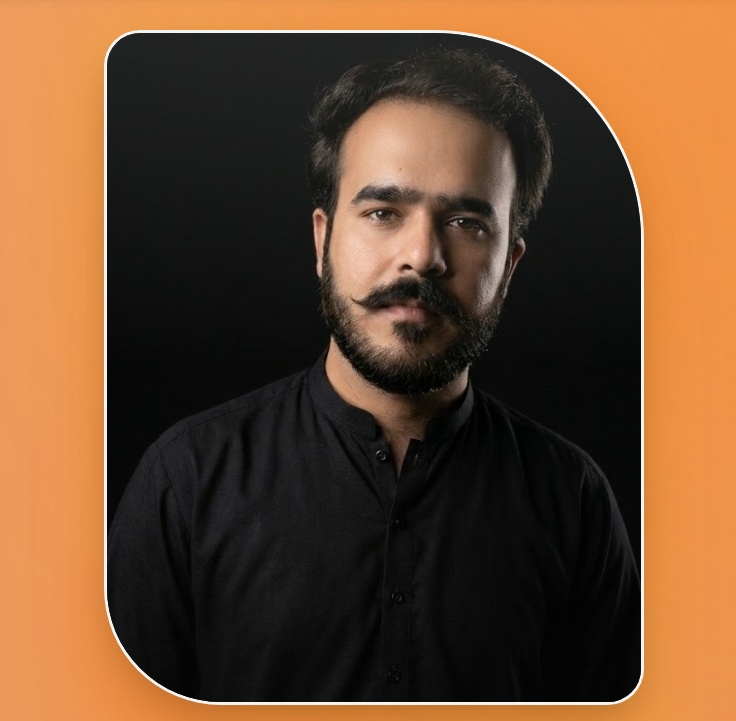
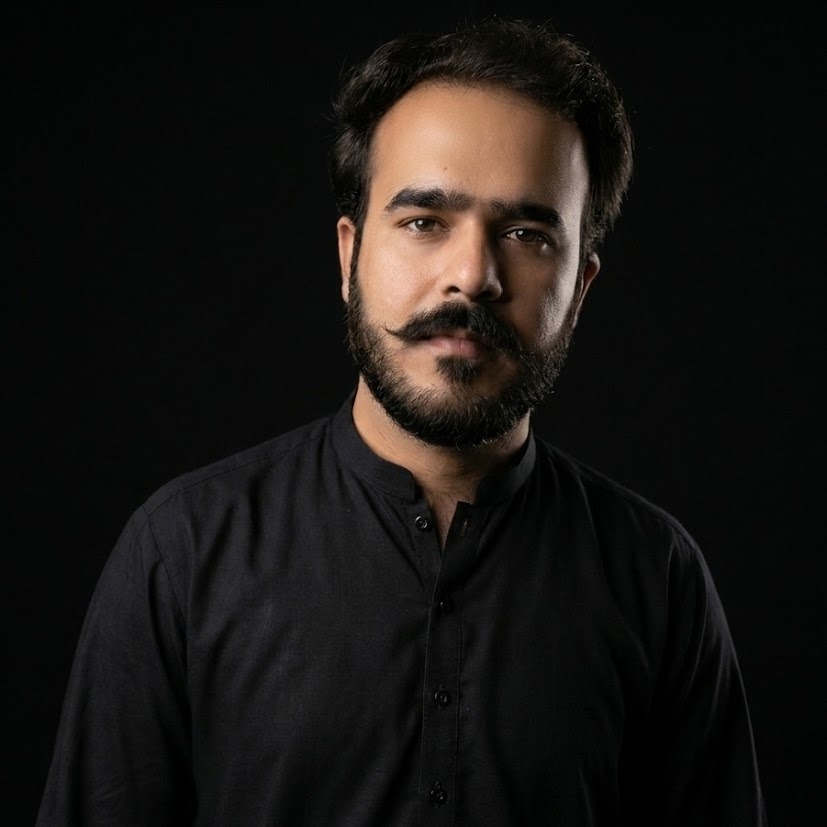
fix(social-preview): update OpenGraph metadata and image to Fahad Saleem portrait for LinkedIn, WhatsApp and Twitter

diff --git a/index.html b/index.html
@@ -16,29 +16,31 @@
     <!-- Title -->
     <title>Fahad Saleem | Lead Generation Specialist & Web Developer</title>
 
-    <!-- Open Graph / Facebook / LinkedIn / WhatsApp -->
+    <!-- Open Graph / Facebook / LinkedIn / WhatsApp Social Share -->
     <meta property="og:type" content="website" />
     <meta property="og:url" content="https://fahadsaleembwp.vercel.app/" />
     <meta property="og:title" content="Fahad Saleem | Lead Generation Specialist & Web Developer" />
     <meta property="og:description" content="50,000+ Verified B2B Prospects, LinkedIn Sales Navigator Sourcing, Multi-Tool Email Verification & Modern Web Solutions." />
-    <meta property="og:image" content="https://fahadsaleembwp.vercel.app/og-preview.png" />
-    <meta property="og:image:secure_url" content="https://fahadsaleembwp.vercel.app/og-preview.png" />
-    <meta property="og:image:type" content="image/png" />
-    <meta property="og:image:width" content="1200" />
-    <meta property="og:image:height" content="630" />
+    <meta property="og:image" content="https://fahadsaleembwp.vercel.app/fahad.jpg" />
+    <meta property="og:image:secure_url" content="https://fahadsaleembwp.vercel.app/fahad.jpg" />
+    <meta property="og:image:type" content="image/jpeg" />
     <meta property="og:image:alt" content="Fahad Saleem - Lead Generation Specialist & Web Developer" />
+    <meta property="og:site_name" content="Fahad Saleem Portfolio" />
 
     <!-- Twitter / X -->
     <meta name="twitter:card" content="summary_large_image" />
     <meta name="twitter:url" content="https://fahadsaleembwp.vercel.app/" />
     <meta name="twitter:title" content="Fahad Saleem | Lead Generation Specialist & Web Developer" />
     <meta name="twitter:description" content="50,000+ Verified B2B Prospects, LinkedIn Sales Navigator Sourcing, Multi-Tool Email Verification & Modern Web Solutions." />
-    <meta name="twitter:image" content="https://fahadsaleembwp.vercel.app/og-preview.png" />
+    <meta name="twitter:image" content="https://fahadsaleembwp.vercel.app/fahad.jpg" />
 
-    <!-- Favicon -->
-    <link rel="icon" href="assets/images/logo/favicon.png" type="image/png" />
-    <link rel="shortcut icon" href="favicon.png" type="image/png" />
-    <link rel="apple-touch-icon" href="assets/images/logo/favicon.png" />
+    <!-- Direct Image Link Fallback for WhatsApp & Link Previewers -->
+    <link rel="image_src" href="https://fahadsaleembwp.vercel.app/fahad.jpg" />
+
+    <!-- Favicon (Fahad Saleem Portrait) -->
+    <link rel="icon" type="image/jpeg" href="https://fahadsaleembwp.vercel.app/fahad.jpg" />
+    <link rel="shortcut icon" href="https://fahadsaleembwp.vercel.app/fahad.jpg" type="image/jpeg" />
+    <link rel="apple-touch-icon" href="https://fahadsaleembwp.vercel.app/fahad.jpg" />
     <!-- Bootstrap -->
     <link rel="stylesheet" href="assets/css/bootstrap.min.css" />
     <!-- Swiper Bundle -->
